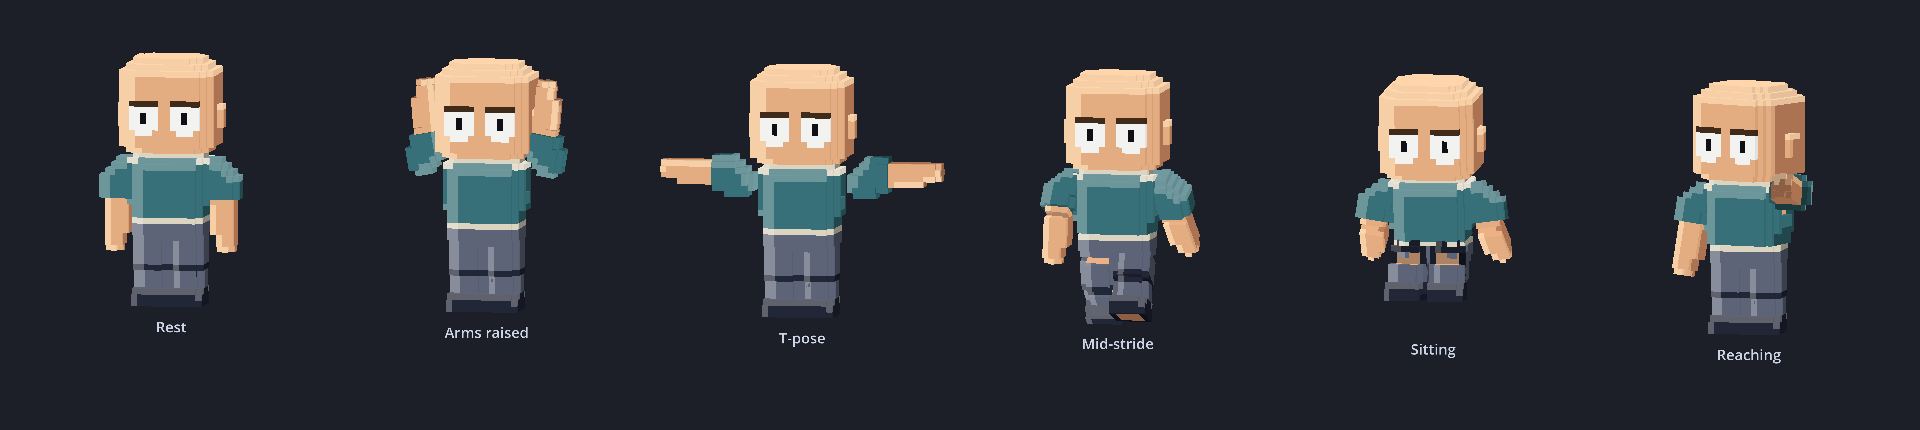
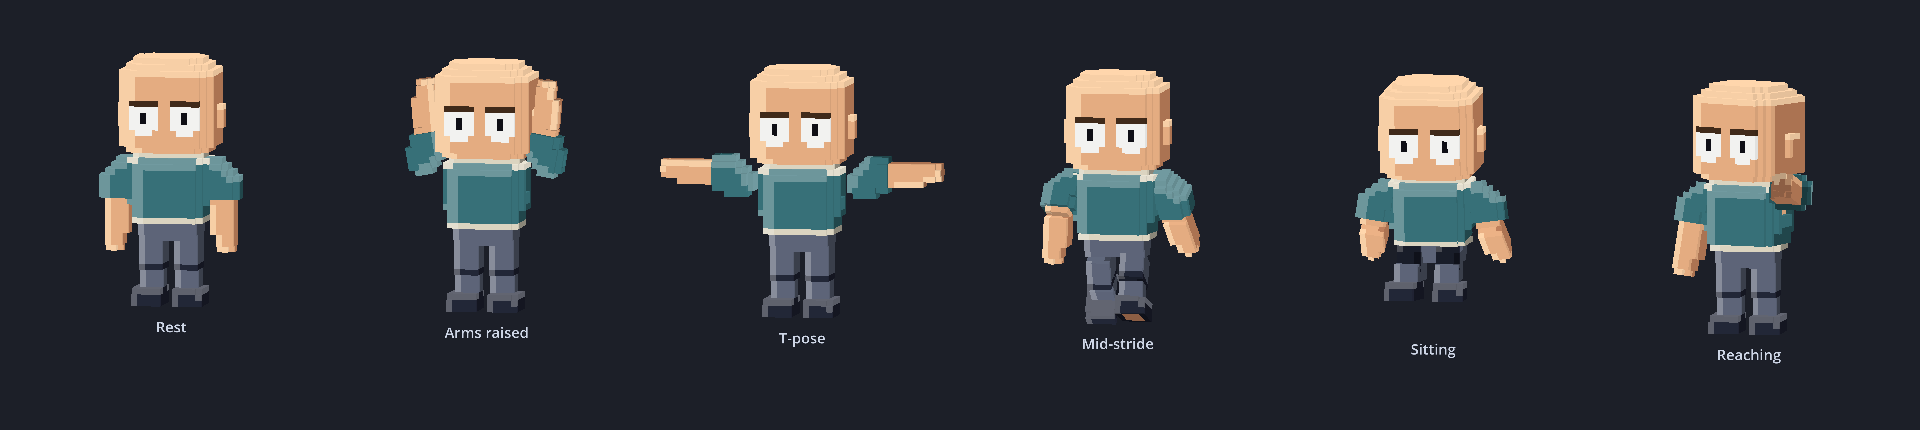
Legs stay apart: bulk rule 8 and skin-tight starter trousers
Trousers and boots fused the legs into one block, the most visible flaw
when the figures are judged at sprite size. The owner chose the fix from
mock-ups.

- Bulk rule 8: nothing worn on the legs or feet grows into the gap between
  them; the leg's own inner face is recoloured instead, so no skin shows in
  the gap. BulkBuilder.without_leg_gap / leg_inner_face, applied by the
  assembler to thigh and shin parts, at any bulk and either edge style.
- Skin-tight (bulk 0) is the norm for trousers: the starter trousers are
  skin-tight, so a top's hem reads as worn over them. The garment panel's
  hint says so.
- Tests on every body: the everyday outfit and thick legwear in both edge
  styles keep the gap open from feet to hips, leave no skin on the inner
  faces, stay mirror images, and thick legwear still grows outward. With the
  rule switched off, 36 of those checks fail.
- The skirt-over-trousers panel test now uses thick trousers; the hood test
  reads the eye box from BodyLayout instead of old fixed numbers.
- SPEC 7.3 rule 8; NOTES 4f records the sprite-size evaluation and this fix.

1421 checks pass.

Claude-Session: https://claude.ai/code/session_01EovwGUjKAJxTGWSNshY1KA

diff --git a/docs/NOTES.md b/docs/NOTES.md
@@ -11,7 +11,7 @@ which parts are solid and which are guesses.
 
 ## 1. Verification status
 
-**Everything compiles and the acceptance suite is green: 1334 checks, 0 failures.**
+**Everything compiles and the acceptance suite is green: 1421 checks, 0 failures.**
 
 ```bash
 tests/run.sh                 # measures the assets, then runs the Godot suite
@@ -108,6 +108,11 @@ like a coincidence nobody intended. Four ways out, for the owner to pick:
 
 *Recommended:* option 2, because it is reversible and costs nothing until a
 garment asks for it. Not done, because which way this goes is a look decision.
+
+**Resolved (owner, 2026-11), as option 3 without the opt-out:** bulk rule 8 --
+nothing worn on the legs or feet grows into the gap between them; the leg's
+inner face is recoloured instead -- plus skin-tight trousers as the norm. See
+section 4f.
 
 ---
 
@@ -286,9 +291,8 @@ A hooded cloak is a cape plus a hood on one item.
    that curves *around* a corner of the body (a scarf, a belt buckle on a
    side). Those still want regions, or a future "wrap around" mode. Moderate
    difficulty, medium confidence it matters.
-6. **Skirt panels and trousers.** The deferred thigh-gap problem touches skirts
-   too: a long skirt over trousers is two layers of cloth panel. Still
-   deferred, as agreed.
+6. ~~Skirt panels and trousers.~~ The thigh-gap problem is fixed (4f); a
+   skirt's panels already clear thick trousers worn under it (4c).
 
 **Owner's answers (problems above):** 1 -- to be worked out together. 2 --
 probably not a problem; later. 3 -- hats will likely need a few options for
@@ -356,9 +360,10 @@ panel shares a voxel with any other part, for every outfit on every body.
 One edge case: a skirt over trousers on the slim feminine body meets the hand,
 which hangs one voxel clear of the hips; the skirt leaves those few cells out.
 
-**Not changed, still deferred:** trousers fill the gap between the thighs
-from both legs, and the tunic does the same at the armpits (two body parts'
-garments in one cell). That is the trouser problem the owner deferred.
+**Not changed here:** trousers filled the gap between the thighs from both
+legs (fixed later, see 4f), and the tunic and a sleeve still meet in one cell
+where an arm hangs against the torso. That one is left alone on purpose: an
+arm resting against the body is the normal sprite look.
 
 **Edited bodies and heads** saved before this change (in `assets/edited/`)
 would be on the old layout and would need redoing; none existed here.
@@ -422,6 +427,45 @@ chin anchor so it can be tweaked.
 - Review sheet: `docs/renders/facial_hair.png`.
 - Watch: an auburn chinstrap on medium skin is low contrast (hue close to the
   skin). Fine for now; revisit if it matters in use.
+
+## 4f. Evaluation at sprite size, and the trouser fix
+
+**The test.** Assembled characters drawn straight on at one voxel per pixel
+are sprites about 24 x 42 px -- classic 16-bit size. Findings (2026-11):
+
+- Faces carry: angry, tired, suspicious and wide open are all told apart at
+  the actual 42 px.
+- Body types only partly read once dressed alike. Dressed widths are 20 / 24
+  / 26 px (masculine slim / average / heavy) and 18 / 20 / 24 (feminine);
+  masculine slim and feminine average have almost the same outline (6 px
+  differ of about 390). Bare, all six read. Whether to widen the spread or let
+  hair and clothes carry it is the owner's call, still open.
+- Outlines are all "head on a block": nothing built yet changes the outline
+  from the front. A hair pass aimed at volume is the likely fix.
+- The bust shows through a tunic as light blotches rather than a shape.
+- The homage is in the data (sprite-sized, chibi head, three tones, eyes-only
+  faces) but unproven in motion: smoothly rotating rigid parts turn voxels
+  off the grid, which reads as a toy rather than a sprite. A small look test
+  (one walk cycle in a few styles, at low resolution, from a candidate
+  camera) is the recommended next experiment.
+
+**The trouser fix (owner chose it from mock-ups).** Trousers and boots fused
+the legs into one block -- the most visible flaw at sprite size. Now:
+
+- Bulk rule 8: nothing worn on the legs or feet grows into the gap between
+  them; the leg's inner face is recoloured instead (`BulkBuilder.
+  without_leg_gap`, `leg_inner_face`, applied by the assembler to thigh and
+  shin parts). Any bulk, either edge style.
+- Skin-tight (bulk 0) is the norm for trousers; the starter trousers are now
+  skin-tight, so a top's hem reads as worn over them.
+- Tests on every body: the everyday outfit and thick legwear in both edge
+  styles keep the gap open from feet to hips, leave no skin on the inner
+  faces, stay symmetric, and thick legwear still grows outward. (With the rule
+  switched off, 36 of those checks fail.)
+- Rejected: a dark seam down a fused block (still reads as one block), and
+  half-size voxels for clothing (mixed voxel sizes; not pursued).
+- Drawn shapes are placed as drawn: rule 8 governs grown bulk, not hand-drawn
+  cells.
 
 ## 5. Still open, for the owner
 

diff --git a/SPEC.md b/SPEC.md
@@ -254,6 +254,11 @@ Bulk rules:
 6. **Layering:** when worn items claim the same cell, the one reaching farthest from the body wins; draw order breaks
    ties. Bulk is measured from the body, not from the layer underneath.
 7. **Edge style** per garment: soft (rounded corners, cloth) or hard (squared, plate).
+8. **Nothing worn on the legs or feet grows into the gap between them** (owner, 2026-11). The side of a leg that
+   faces the other leg gets no added voxels; the leg's own inner face is recoloured instead. The legs stand two voxels
+   apart, so each growing one voxel inward would fuse trousers or boots into one block. Applies to thigh and shin
+   parts (the shin includes the foot), at any bulk and either edge style. **Skin-tight (bulk 0) is the norm for
+   trousers**; bulk is for legwear meant to look thick.
 
 Normal range 0–3; more is allowed.
 

diff --git a/README.md b/README.md
@@ -62,7 +62,7 @@ same character assembled the way the game will do it, with no editor involved.
 ## Tests
 
 Every acceptance check in `SPEC.md` section 12 is an automated test.
-**1334 checks, all passing** on Godot 4.7.2.
+**1421 checks, all passing** on Godot 4.7.2.
 
 ```bash
 godot --headless --path . --script res://tests/run_tests.gd
